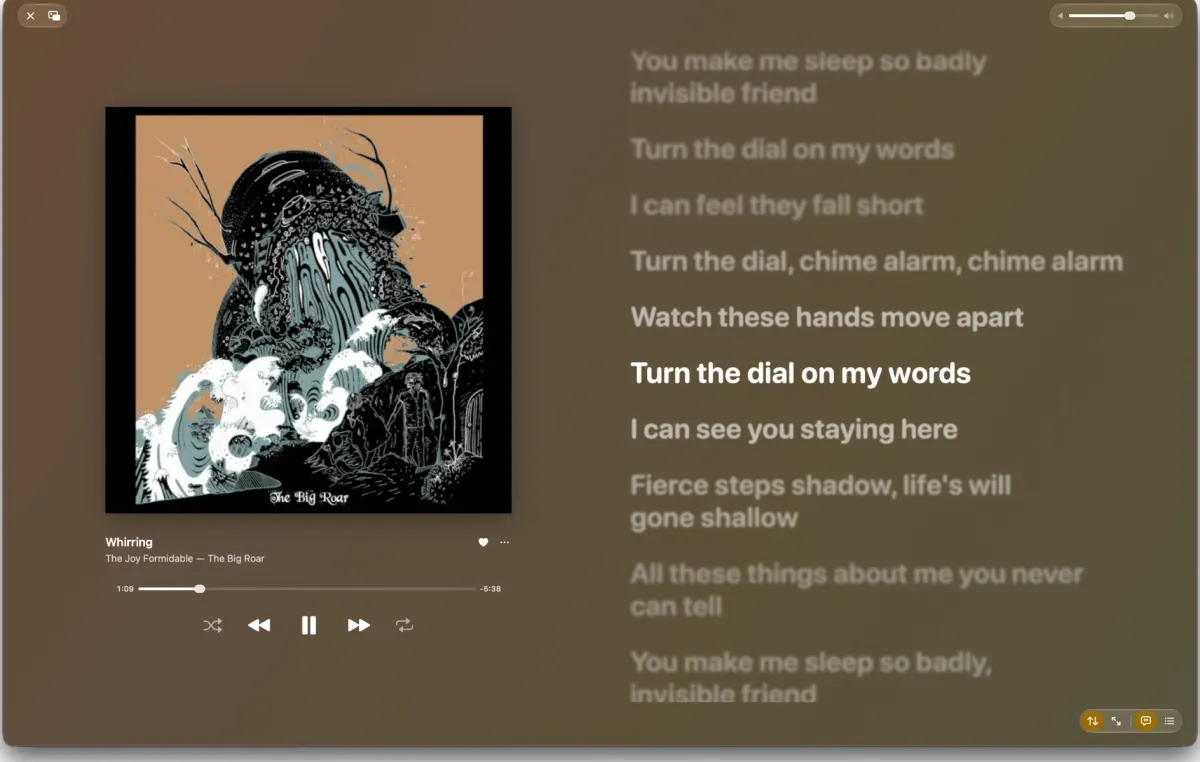
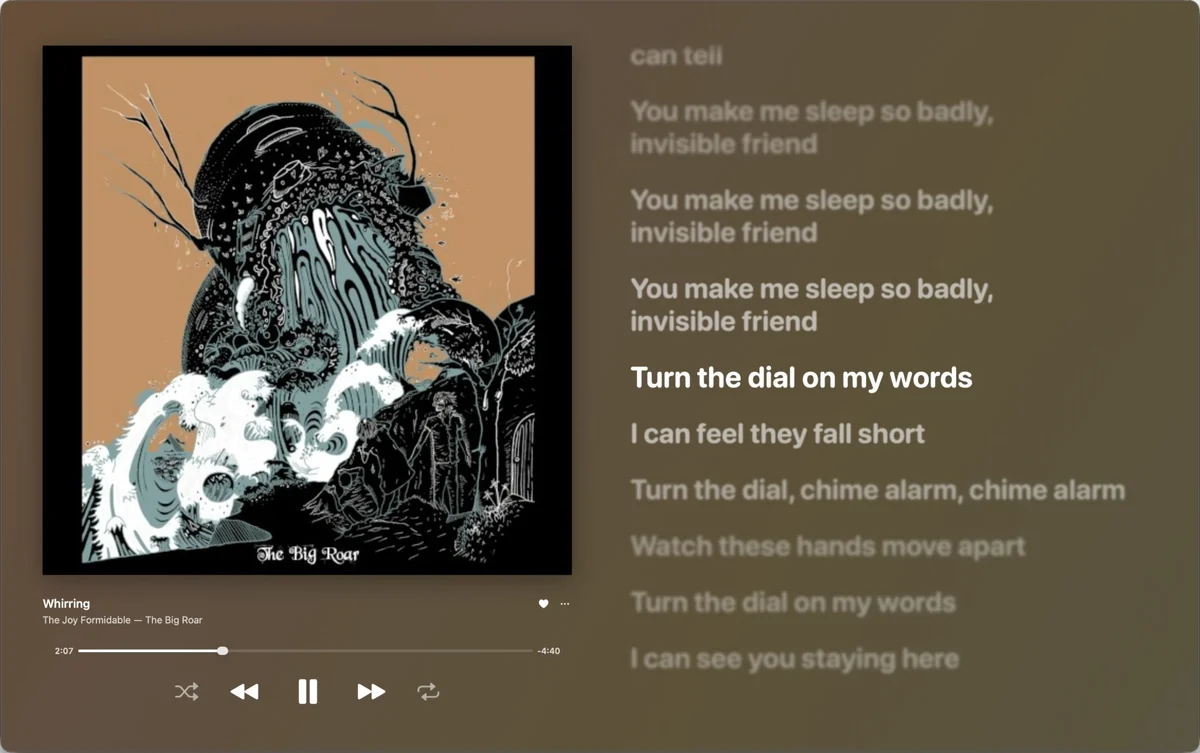
docs: new Mac Now Playing shots, Make it with Hi-MD, ad copy off the README
The Mac Now Playing and lyrics screenshots show the larger artwork and
transport, and the website's lyrics image is cut from the new one. Build it
yourself gets a Make it with Hi-MD kicker, after Sony's MiniDisc campaign. The
README drops the press release; the website carries it.

diff --git a/docs/index.html b/docs/index.html
@@ -118,7 +118,7 @@
           <img src="assets/mac-albums.webp" width="1200" height="762" loading="lazy" alt="Hi-MD on Mac: the album grid.">
         </figure>
         <figure class="shot shot--mac hall__d">
-          <img src="assets/mac-lyrics.webp" width="1200" height="762" loading="lazy" alt="Hi-MD on Mac: Now Playing with synced lyrics beside the album cover.">
+          <img src="assets/mac-lyrics.webp" width="1200" height="753" loading="lazy" alt="Hi-MD on Mac: Now Playing with synced lyrics beside the album cover.">
         </figure>
         <figure class="phone hall__p">
           <img src="screenshots/ios/02-now-playing.jpg" width="553" height="1200" loading="lazy" alt="Hi-MD on iPhone: Now Playing, with the album cover, controls and volume.">
@@ -224,6 +224,7 @@
     <!-- Ad 7: the instructions -->
     <section class="build wrap" id="build" aria-labelledby="build-title">
       <div class="build__head">
+        <p class="build__kicker">Make it with Hi-MD.</p>
         <h2 class="build__title" id="build-title">Build it yourself.</h2>
         <p>Build Hi-MD from source: no App Store listing, no TestFlight, no prebuilt builds. You’ll need a Mac with Xcode 27 or later, a Subsonic, OpenSubsonic or Navidrome server and, for a device build, an Apple Developer account. <a href="https://github.com/ecliptik/hi-md#build-from-source">Details</a>.</p>
         <ul class="build__links">

diff --git a/docs/style.css b/docs/style.css
@@ -575,7 +575,8 @@ a:hover { text-decoration-thickness: 2px; }
 }
 .amp__text > * + * { margin-top: 0.85em; }
 
-.amp__kicker {
+.amp__kicker,
+.build__kicker {
   font-family: var(--shout);
   font-weight: 700;
   text-transform: uppercase;

diff --git a/README.md b/README.md
@@ -25,19 +25,6 @@
   <a href="https://swift.org"><img src="https://img.shields.io/badge/Swift-6-orange.svg" alt="Swift 6"></a>
 </p>
 
-### "Hi-MD" Established: The Minidisc Music Player Has Evolved into a Versatile Listening App for the Self-Hosted Era
-
-*October 2026* — ecliptik today announced the development of "Hi-MD," marking an evolution of the Minidisc music player into a versatile listening app that also delivers synced lyrics, an Apple Watch remote and a native Mac app, while maintaining playback compatibility with current Subsonic and Navidrome servers and keeping your music between your devices and your own server.
-
-With the introduction of "Hi-MD," your Navidrome server is poised to meet the demands of a growing broadband era with a versatile player capable of playing a variety of content, such as music and lyrics, while maintaining high quality sound and resolution.
-
-- **High capacity:** songs buffer four minutes ahead on both decks, and the playing one downloads in full from its first second; upcoming, recently played, pinned and favourite songs can be cached for offline listening, and albums download for the commute.
-- **High quality sound:** original-quality streaming on Wi-Fi; gapless playback and real crossfades on a two-deck engine; a 10-band equalizer with AutoEq headphone corrections; loudness leveling.
-- **Versatile recording media:** iPhone, iPad and a native Mac app, and Miniamp, a Winamp-like player, loads classic skins (.wsz). Leverage Apple Intelligence, Anthropic or OpenAI to provide recommendations based on your unique taste.
-- **Copyright protection technology:** no OpenMG, no MagicGate, no accounts and no tracking. Your server, your music.
-
-ecliptik will proactively promote the "Hi-MD" format household-wide.
-
 Hi-MD is a revamp of Minidisc, like [Hi-MD](https://www.minidisc.org/keep/sony_himd_announcement.pdf) was for the MiniDisc. It is an unofficial fork of [Loriage/Minidisc](https://github.com/Loriage/Minidisc), and it is not affiliated with or endorsed by Sony; MiniDisc and Hi-MD are Sony trademarks.
 
 <p align="center">
